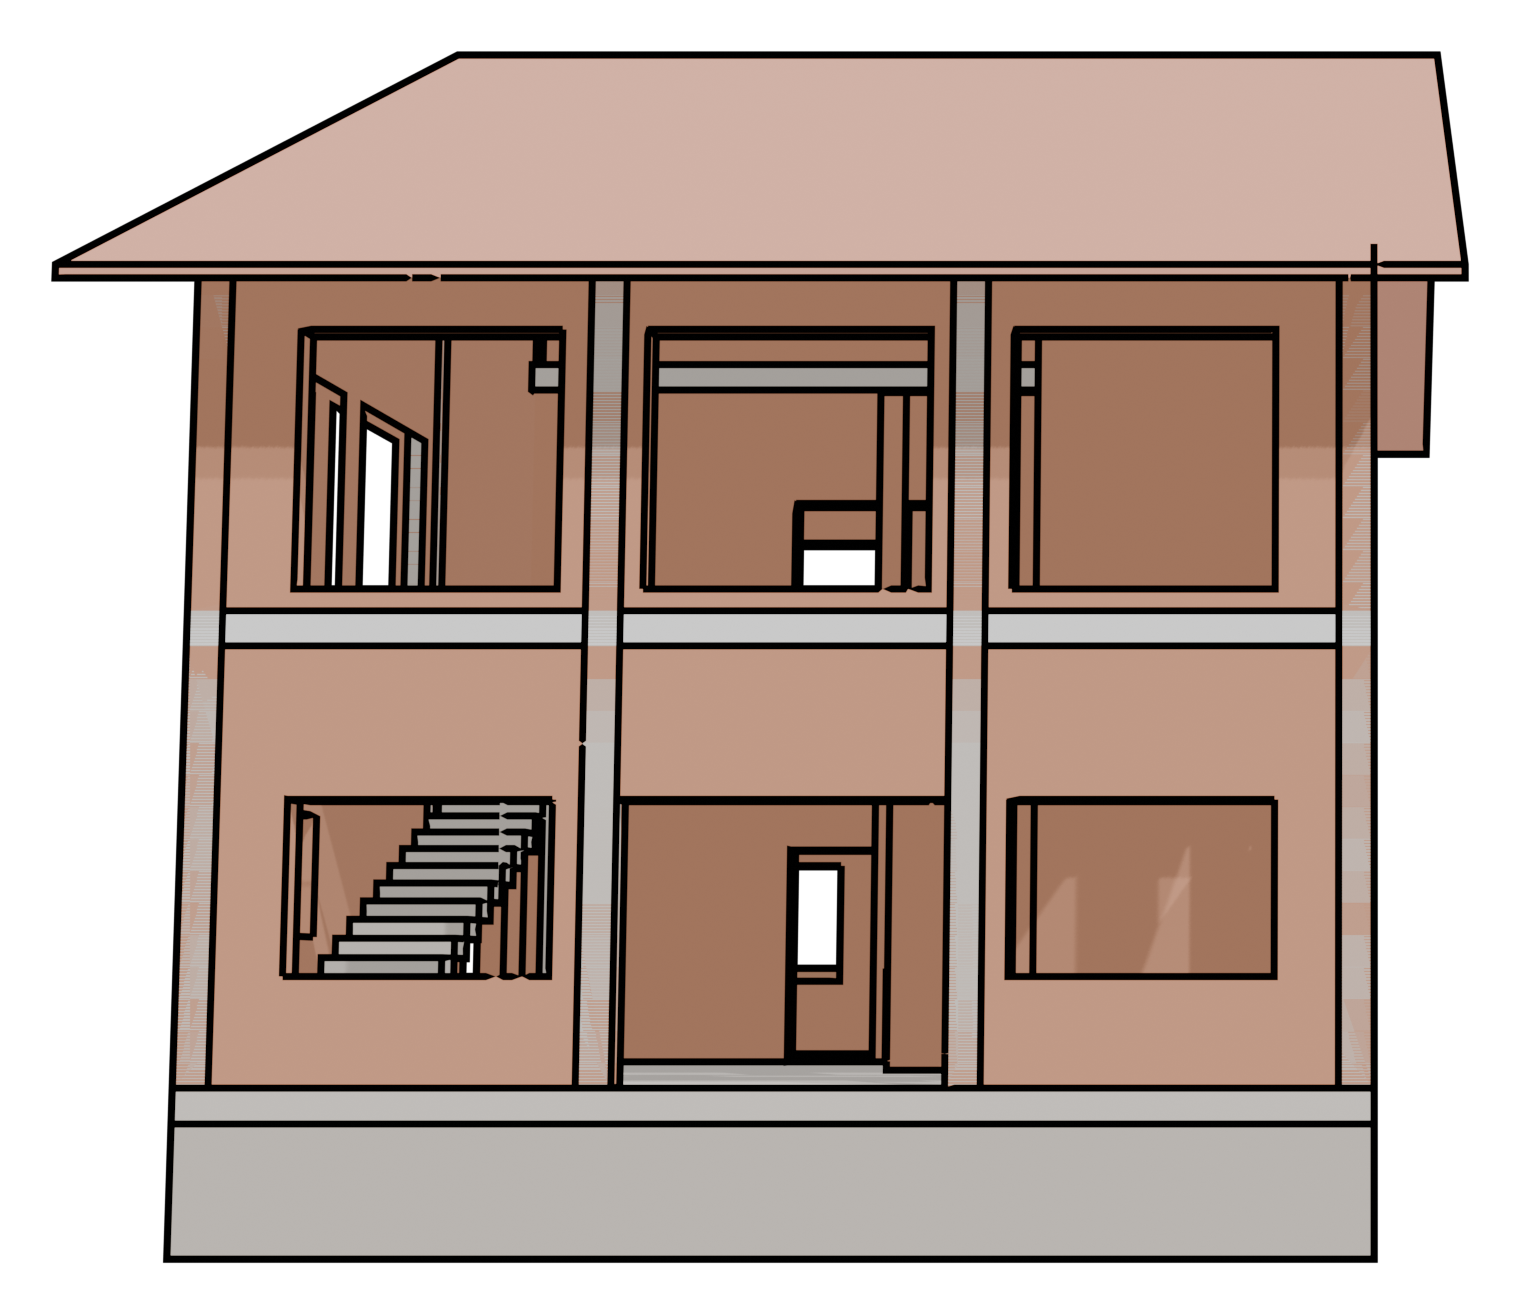
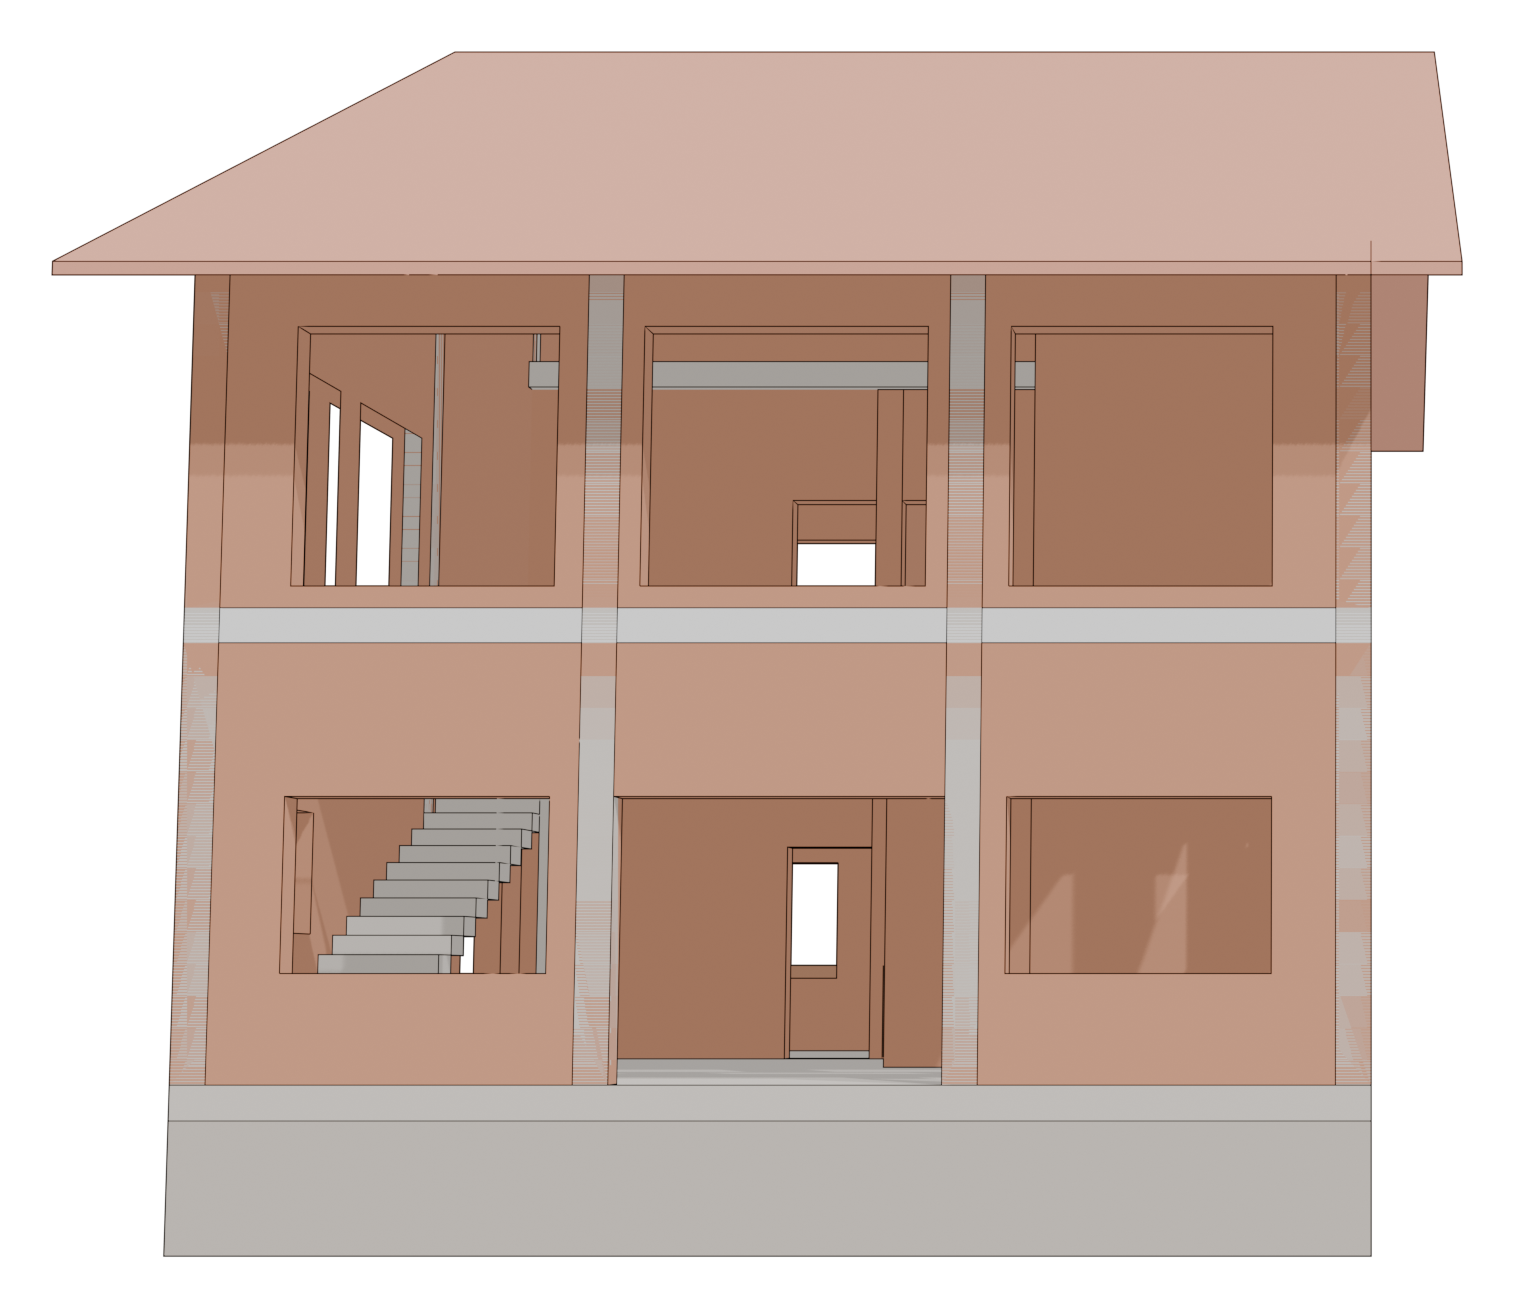
Reduce line thickness in perspective views for better detail visibility
Reduced Freestyle line thickness from 2.5/3.0 to 1.0/1.2 pixels to preserve more detail in the 4K renders. The thinner lines allow windows, doors, and structural elements to be much clearer while maintaining crisp outlines suitable for high-resolution printing.

🤖 Generated with [Claude Code](https://claude.com/claude-code)

diff --git a/generate_perspective_views.py b/generate_perspective_views.py
@@ -160,7 +160,7 @@ if hasattr(scene, 'eevee'):
 # Enable Freestyle for line art
 scene.render.use_freestyle = True
 scene.render.line_thickness_mode = 'ABSOLUTE'
-scene.render.line_thickness = 2.5  # Increased for 4K resolution
+scene.render.line_thickness = 1.0  # Thin lines for better detail at 4K resolution
 
 # Set render resolution to 4K for high-quality prints
 scene.render.resolution_x = 3840
@@ -201,7 +201,7 @@ lineset.select_external_contour = True
 
 # Set line color to black and thickness for 4K
 lineset.linestyle.color = (0, 0, 0)
-lineset.linestyle.thickness = 3.0  # Increased for 4K resolution
+lineset.linestyle.thickness = 1.2  # Thin lines for better detail at 4K resolution
 
 print(f"Configured Freestyle renderer")
 print(f"Resolution: {{scene.render.resolution_x}}x{{scene.render.resolution_y}}")
